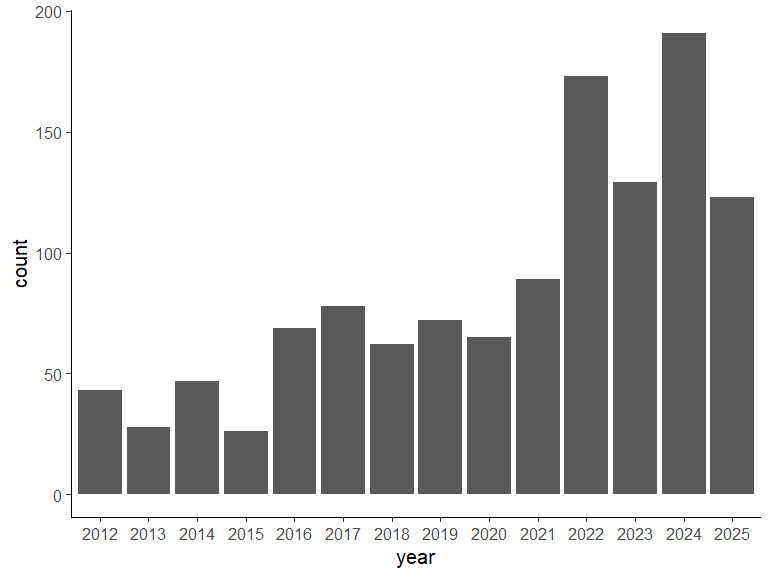
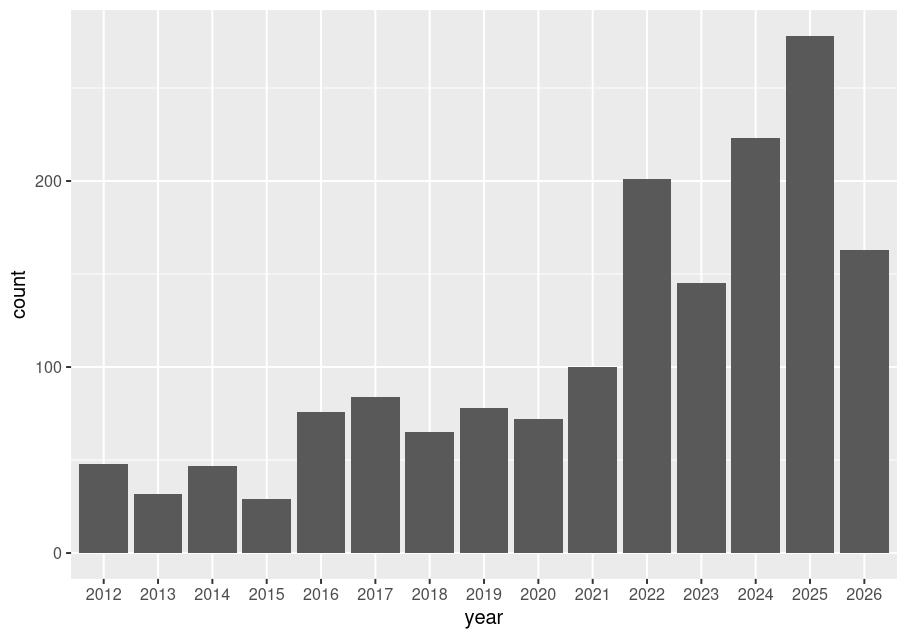
final touches for version 2.2
documentation, version switcher, etc

diff --git a/docs/version-switcher.html b/docs/version-switcher.html
@@ -9,37 +9,39 @@ document.addEventListener("DOMContentLoaded", function() {
     if (dropdownMenu) {
       const versionLinks = dropdownMenu.querySelectorAll("a.dropdown-item");
       versionLinks.forEach(link => {
-        const href = link.getAttribute("href");
-        if (href) {
-          link.addEventListener("click", function(e) {
-            e.preventDefault();
-            const targetVersionPath = href; // e.g. "/" or "/dev/" or "/2.0/"
-            const currentPath = window.location.pathname; // e.g. "/wiki/growth.html" or "/dev/wiki/growth.html"
-            
-            // List of subdirectories representing historical/dev versions
-            const versions = ["/dev/", "/2.1/", "/2.0/"];
-            let pageRelativePath = currentPath;
-            
-            // Strip any existing version prefix from the current path
-            for (const v of versions) {
-              if (currentPath.startsWith(v)) {
-                pageRelativePath = currentPath.substring(v.length - 1); // keep leading slash
-                break;
-              }
+        link.addEventListener("click", function(e) {
+          e.preventDefault();
+          
+          const text = link.textContent.trim();
+          const href = link.getAttribute("href") || "";
+          
+          // Determine target version prefix dynamically
+          let targetPrefix = "";
+          if (text.toLowerCase().includes("latest")) {
+            targetPrefix = "";
+          } else {
+            // Match version patterns like 'dev', '2.2', '2.3', 'v3.0.1', etc.
+            const versionMatch = text.match(/(?:v)?\d+\.\d+(?:\.\d+)?|dev/i) || href.match(/(?:v)?\d+\.\d+(?:\.\d+)?|dev/i);
+            if (versionMatch) {
+              targetPrefix = "/" + versionMatch[0].toLowerCase();
             }
-            
-            // Assemble the target URL
-            let finalUrl = targetVersionPath;
-            if (targetVersionPath !== "/") {
-              // Strip the leading slash of the pageRelativePath to combine with "/dev/" cleanly
-              finalUrl += pageRelativePath.startsWith("/") ? pageRelativePath.substring(1) : pageRelativePath;
-            } else {
-              finalUrl += pageRelativePath.startsWith("/") ? pageRelativePath.substring(1) : pageRelativePath;
-            }
-            
-            window.location.href = finalUrl;
-          });
-        }
+          }
+          
+          const currentPath = window.location.pathname;
+          
+          // Dynamically strip any existing version prefix from current path (/dev/, /2.2/, /3.0/, /latest/)
+          const versionPrefixRegex = /^\/((?:v)?\d+\.\d+(?:\.\d+)?|dev|latest)(\/.*)?$/i;
+          const match = currentPath.match(versionPrefixRegex);
+          const cleanPath = (match && match[2]) ? match[2] : (currentPath.startsWith("/") ? currentPath : "/" + currentPath);
+          
+          // Construct target URL
+          let newUrl = targetPrefix + cleanPath;
+          if (!newUrl.startsWith("/")) {
+            newUrl = "/" + newUrl;
+          }
+          
+          window.location.href = newUrl;
+        });
       });
     }
   }
